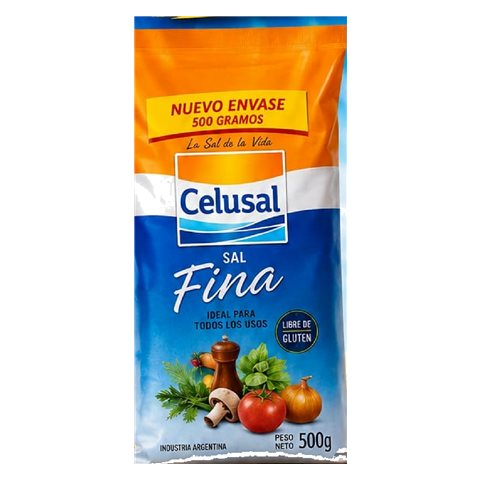
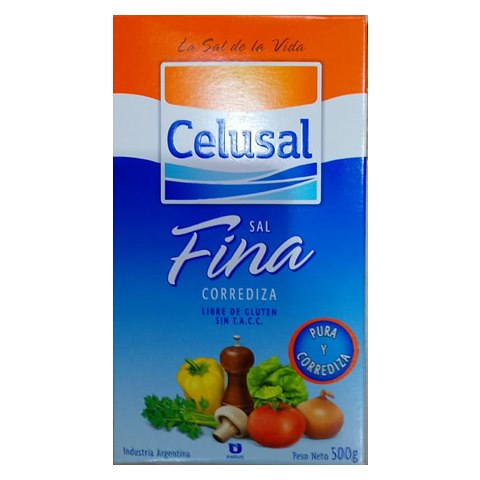
OTM: fotos nuevas Celusal gruesa 1kg y fina 500gr

diff --git a/catalogo-otm.html b/catalogo-otm.html
@@ -137,7 +137,7 @@ const esc = s => String(s).replace(/[&<>"]/g, c => ({'&':'&amp;','<':'&lt;','>':
 const fecha = iso => iso ? iso.split('-').reverse().join('/') : '';
 const limpiar = d => d.replace(/\s+/g,' ').trim();
 const marca = d => ((d.match(/CELUSAL|GENSER|TOSCANA|MENOYO|LIVIAN|ALCAZAR|LED|DOM|TAYAL|GRAN JUICIO|TALITAS|HARINA|MAN[IÍ]/i) || ['OTM'])[0].toUpperCase());
-const FOTOS_V = '2';   // cambiar cuando se reemplazan las fotos, para que el navegador no muestre las viejas
+const FOTOS_V = '3';   // cambiar cuando se reemplazan las fotos, para que el navegador no muestre las viejas
 const norm = s => String(s).normalize('NFD').replace(/[̀-ͯ]/g,'').toLowerCase();
 // Segmentos tildados: ninguno = se ven todos; uno o varios = solo esos (se combinan con el buscador)
 const elegidos = new Set();
